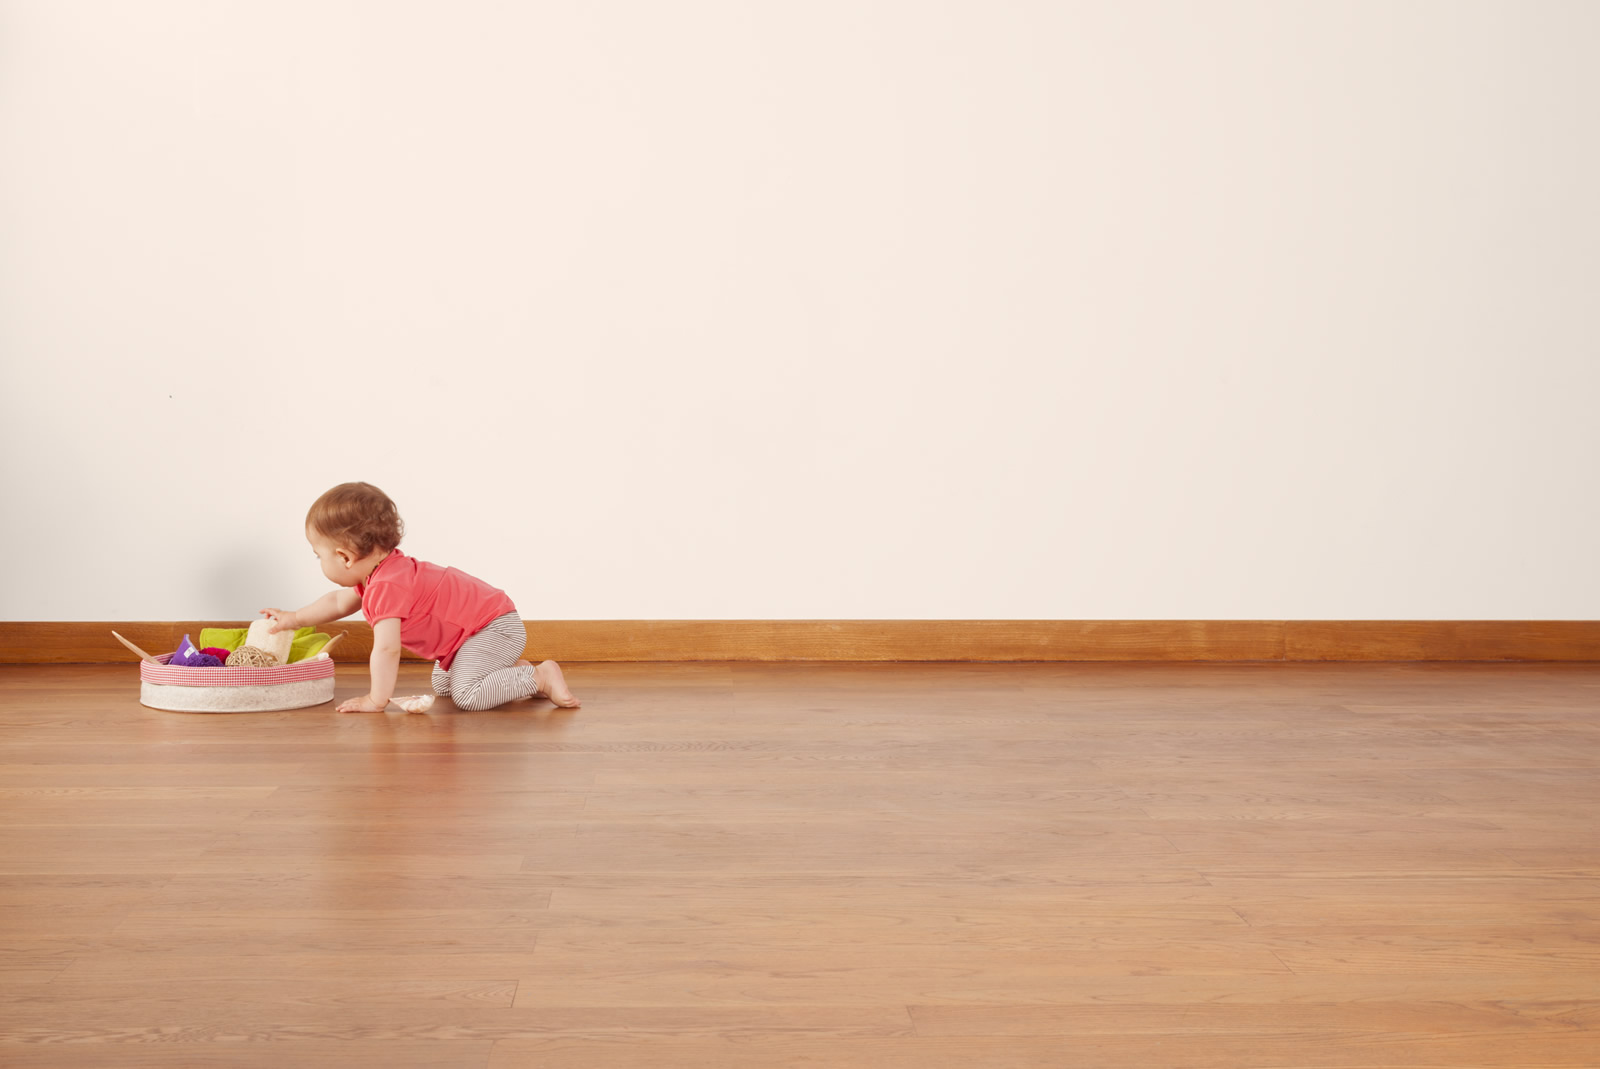
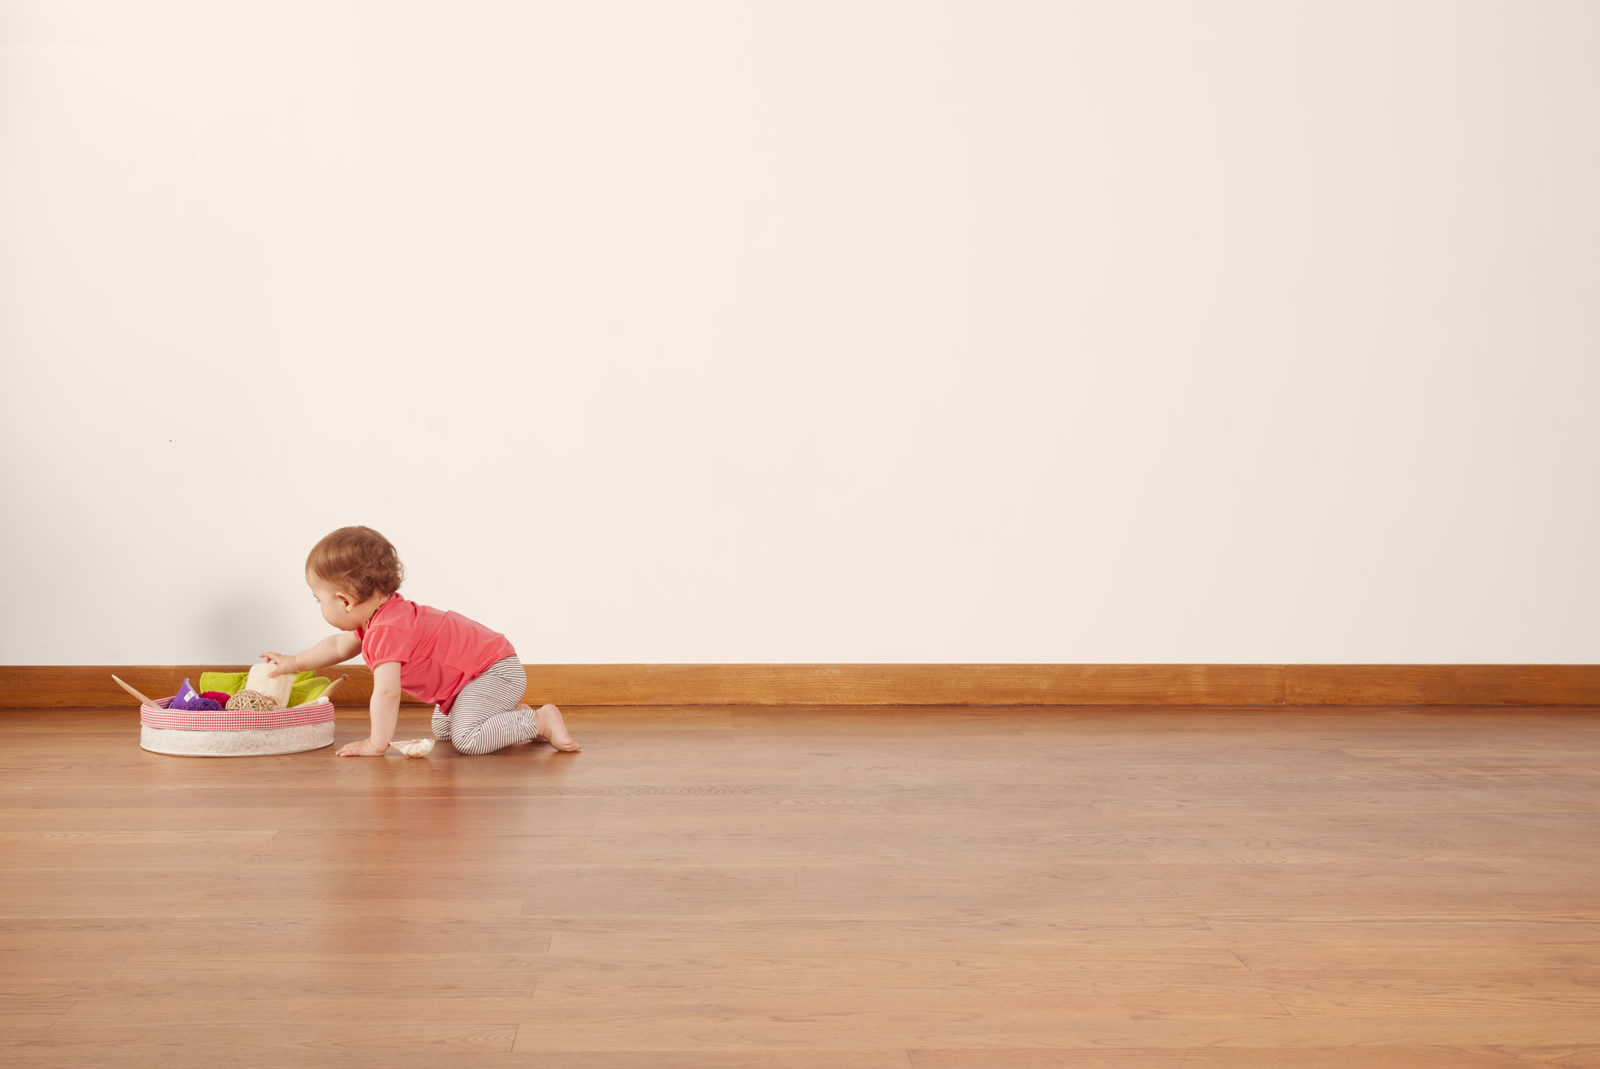
Fondos nuevos y ajustes footer

Changed region(s): [[0.0, 0.4322, 1.0, 0.7409], [0.9688, 0.9878, 1.0, 1.0], [0.25, 0.7409, 0.2812, 0.7717]]

diff --git a/css/cesto.css b/css/cesto.css
@@ -42,7 +42,7 @@ body {
 }
 
 strong {
-    color:#F94600;
+    color:#BC1727;
     font-weight: 400;
 }
 
@@ -124,7 +124,7 @@ padding-bottom: 100px;
         font-family: "Fair", serif;
     font-size: 14px;
 /*    letter-spacing: 0.6px;*/
-    height: 45px;
+       height: 47px;
     padding: 0;
   
     
@@ -151,8 +151,8 @@ padding-bottom: 100px;
 .section-nav li {
     background-color: #000000;
     display: inline-block;
-    font-size: 1em;
-    padding: 10px 6px;
+    font-size: 1.2em;
+    padding: 10px 12px;
     
    }
 
@@ -1070,7 +1070,7 @@ section#s-tres {
 }
 
 .video-img {
-    padding-top: 40px;
+    padding-top: 14px;
 }
 
 .snow {
